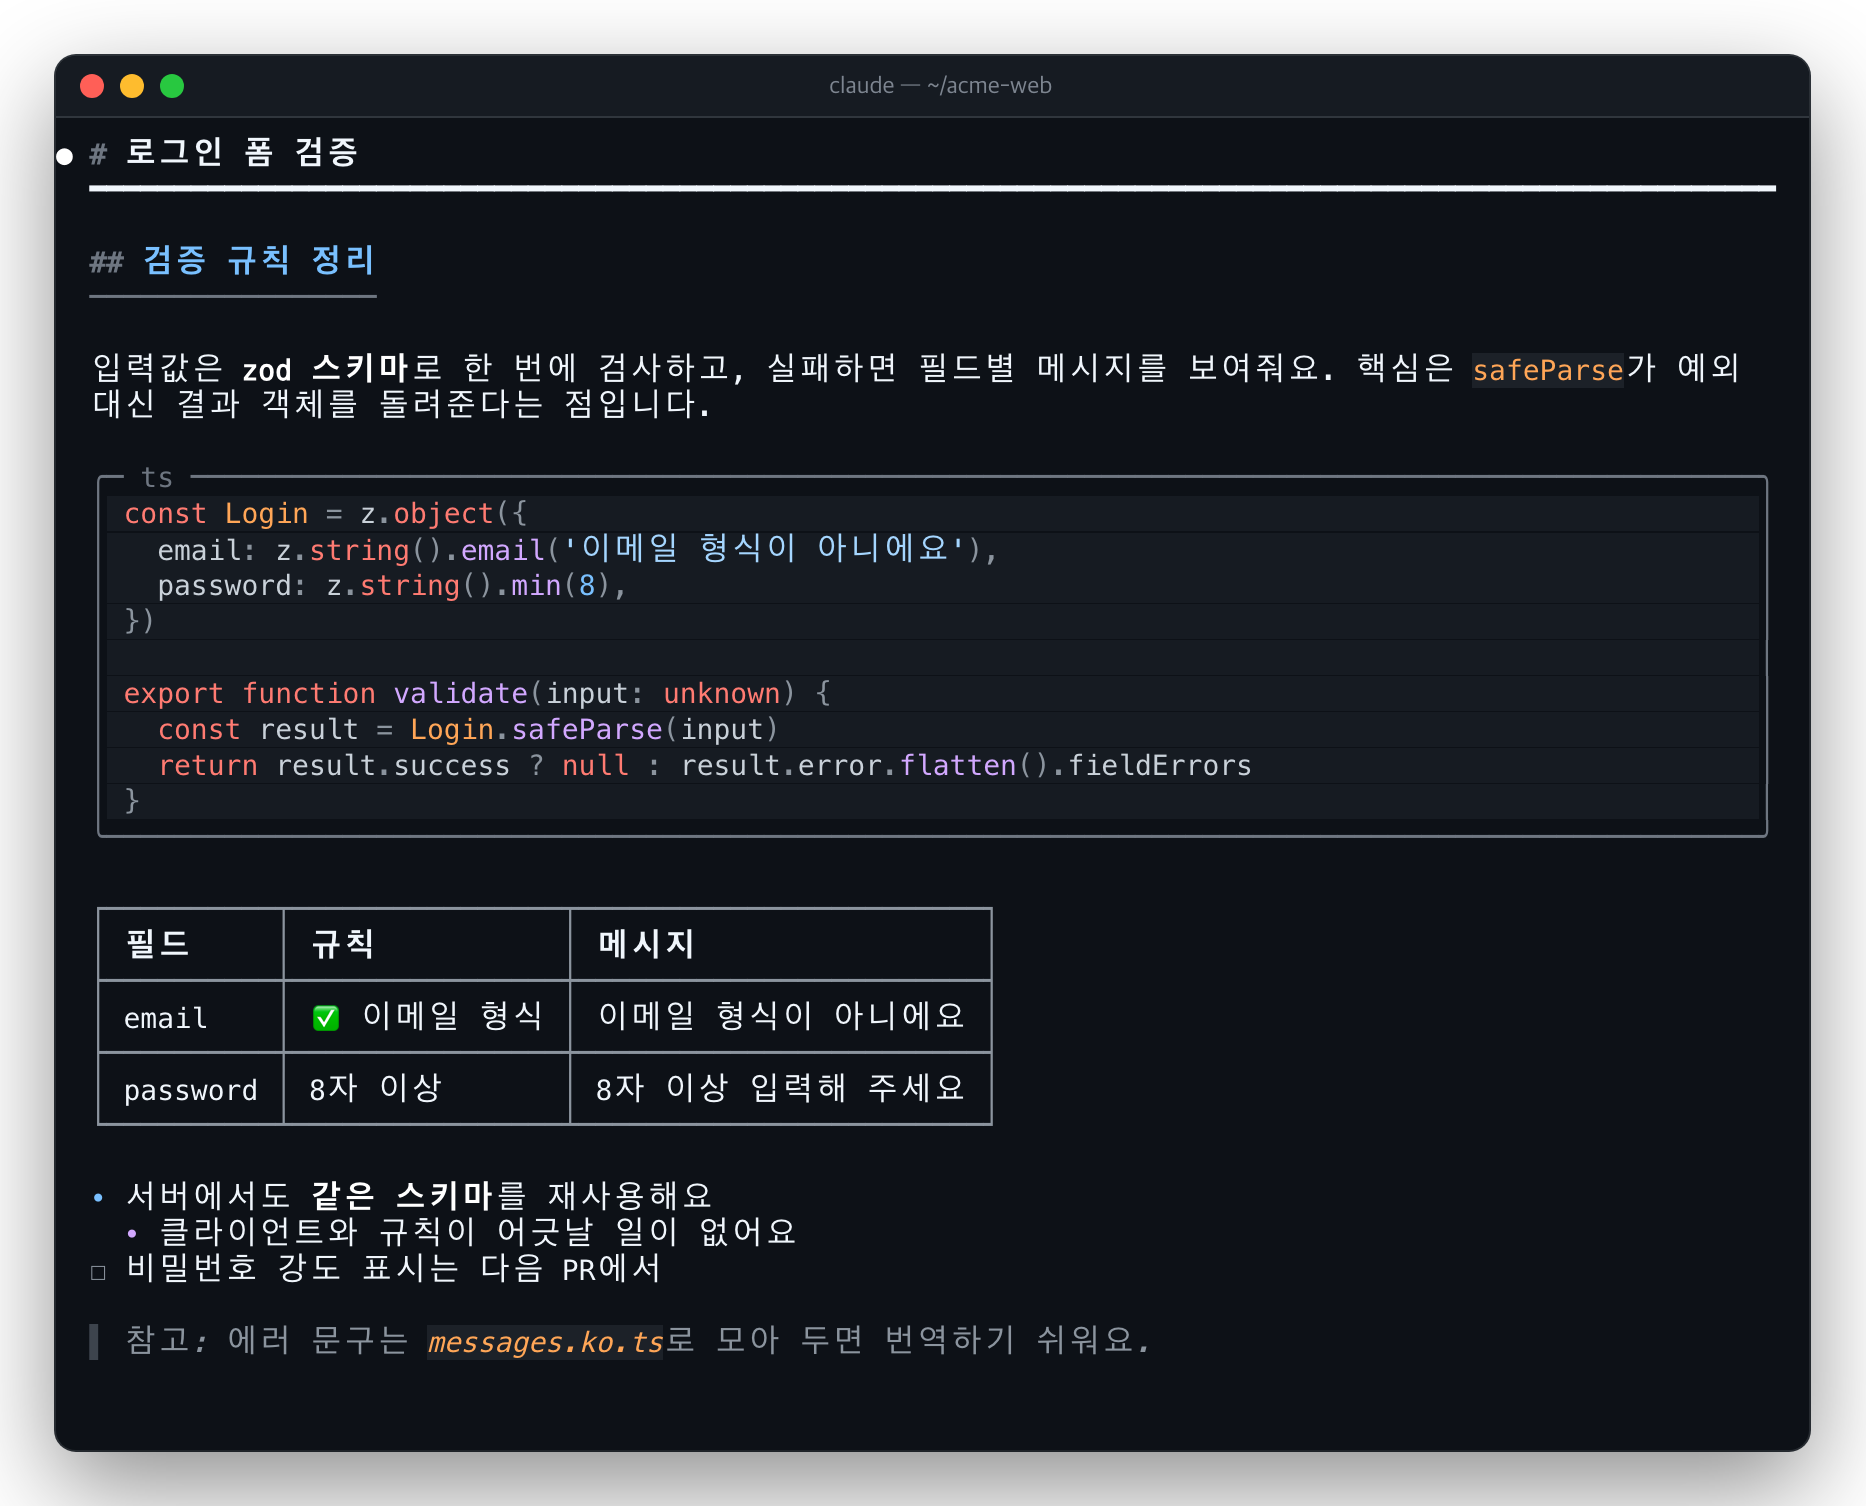
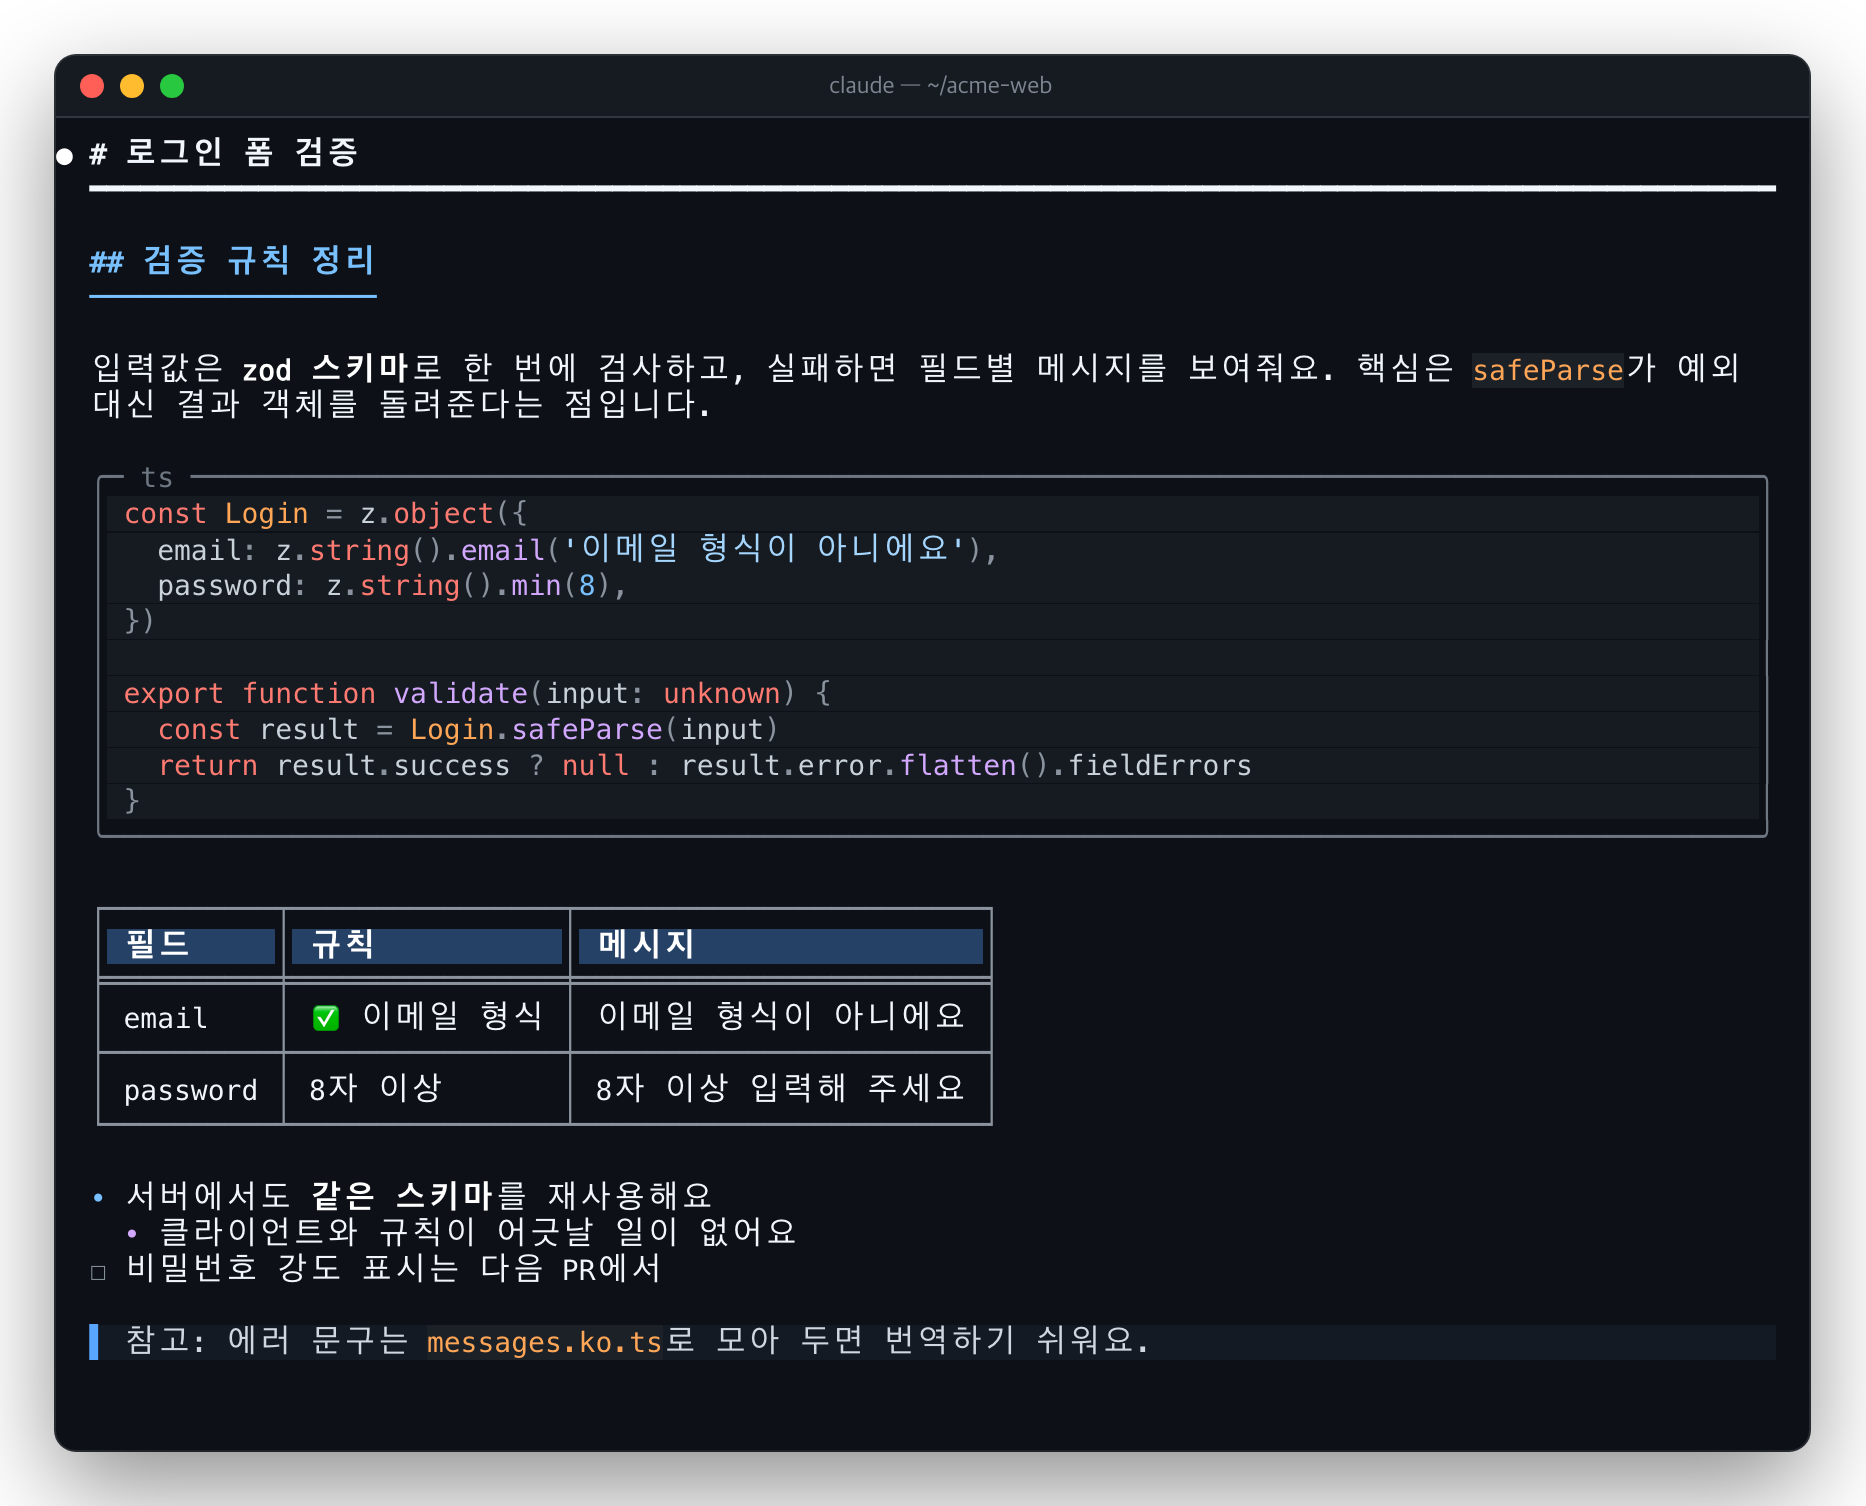
fix(readability): clearer quotes, table headers and heading marks (0.2.2)

diff --git a/mods/readability/hooks/layout.ts b/mods/readability/hooks/layout.ts
@@ -107,11 +107,12 @@ const span = (text: string, paint: Paint): Span => ({ text, paint })
 function heading(level: number, inline: Inline[], width: number): Line[] {
   const color = T.heading[Math.min(level, 6) - 1]!
   const paint: Paint = { color, weight: 'bold' }
-  const hashes = span(`${'#'.repeat(level)} `, { color: T.hash, weight: 'bold' })
+  // The # marks and the underline take the heading's own color, so the level reads at a glance.
+  const hashes = span(`${'#'.repeat(level)} `, { color, weight: 'bold' })
   const lines = wrap(spansOf(inline, paint), width, [hashes], [span(' '.repeat(level + 1), {})])
   const textWide = Math.max(...lines.map(l => l.reduce((n, s) => n + textWidth(s.text), 0)))
   if (level === 1) lines.push([span('━'.repeat(Math.max(8, width)), { color })])
-  if (level === 2) lines.push([span('─'.repeat(Math.min(width, Math.max(8, textWide))), { color: T.rule })])
+  if (level === 2) lines.push([span('─'.repeat(Math.min(width, Math.max(8, textWide))), { color })])
   return lines
 }
 
@@ -156,26 +157,28 @@ function table(block: Extract<Block, { kind: 'table' }>, width: number): Line[] 
     if (widths[widest]! <= 4) break
     widths[widest]!--
   }
-  const border = (l: string, m: string, r: string) => [span(l + widths.map(w => '─'.repeat(w + 2)).join(m) + r, { color: T.tableBorder })]
-  const row = (cells: Span[][]): Line[] => {
+  const border = (l: string, m: string, r: string, ch = '─') => [span(l + widths.map(w => ch.repeat(w + 2)).join(m) + r, { color: T.tableBorder })]
+  // `bg` tints a row's cells (the header's), leaving the borders and any span's own background.
+  const row = (cells: Span[][], bg?: string): Line[] => {
+    const fill: Paint = bg ? { backgroundColor: bg } : {}
     const wrapped = cells.map((cell, i) => wrap(cell, widths[i]!))
     const height = Math.max(1, ...wrapped.map(w => w.length))
     return Array.from({ length: height }, (_, y) => {
       const line: Line = [span('│', { color: T.tableBorder })]
       wrapped.forEach((cell, i) => {
-        const content = cell[y] ?? []
+        const content = (cell[y] ?? []).map(s => (bg && !s.paint.backgroundColor ? { ...s, paint: { ...s.paint, ...fill } } : s))
         const used = content.reduce((n, s) => n + textWidth(s.text), 0)
         const gap = widths[i]! - used
         const align = block.align[i] ?? 'left'
         const left = align === 'right' ? gap : align === 'center' ? Math.floor(gap / 2) : 0
-        line.push(span(' '.repeat(1 + left), {}), ...content, span(' '.repeat(1 + gap - left), {}), span('│', { color: T.tableBorder }))
+        line.push(span(' '.repeat(1 + left), fill), ...content, span(' '.repeat(1 + gap - left), fill), span('│', { color: T.tableBorder }))
       })
       return line
     })
   }
-  // A rule under the header and between every body row, so a row that wraps reads as one.
+  // A tinted header over a double rule, and a rule between every body row, so a row that wraps reads as one.
   const between = border('├', '┼', '┤')
-  return [border('┌', '┬', '┐'), ...row(head), between, ...rows.flatMap((r, i) => [...(i > 0 ? [between] : []), ...row(r)]), border('└', '┴', '┘')]
+  return [border('┌', '┬', '┐'), ...row(head, T.tableHeadBg), border('╞', '╪', '╡', '═'), ...rows.flatMap((r, i) => [...(i > 0 ? [between] : []), ...row(r)]), border('└', '┴', '┘')]
 }
 
 export function layoutBlocks(blocks: Block[], width: number, depth = 0): Line[] {
@@ -196,9 +199,14 @@ export function layoutBlocks(blocks: Block[], width: number, depth = 0): Line[] 
         out.push([span('─'.repeat(Math.max(4, width)), { color: T.rule })])
         break
       case 'quote': {
-        const bar = span('▌ ', { color: T.quoteBar })
-        for (const line of layoutBlocks(block.blocks, width - 2, depth)) {
-          out.push([bar, ...line.map(s => ({ ...s, paint: { ...s.paint, color: s.paint.color === T.text ? T.muted : s.paint.color, italic: true } }))])
+        // A bright bar and a faint tint across the width, the text a step softer than the body's but
+        // upright: italics read poorly in many terminal fonts.
+        const bg = { backgroundColor: T.quoteBg }
+        const bar = span('▌ ', { color: T.quoteBar, ...bg })
+        for (const line of layoutBlocks(block.blocks, width - 3, depth)) {
+          const body = line.map(s => ({ ...s, paint: { ...s.paint, ...(s.paint.color === T.text ? { color: T.quoteText } : {}), ...(s.paint.backgroundColor ? {} : bg) } }))
+          const used = 2 + body.reduce((n, s) => n + textWidth(s.text), 0)
+          out.push([bar, ...body, span(' '.repeat(Math.max(1, width - used)), bg)])
         }
         break
       }

diff --git a/mods/readability/hooks/theme.ts b/mods/readability/hooks/theme.ts
@@ -19,10 +19,11 @@ export const T = {
   code: '#ffa657',
   codeBg: '#1c2128',
   blockBg: '#161b22',
-  rule: '#6e7681',
-  hash: '#6e7681', // a heading's # marks
+  rule: '#8b949e',
   box: '#6e7681', // a code block's frame
-  quoteBar: '#3d444d',
+  quoteBar: '#58a6ff', // a quote's bar, and its tinted lines
+  quoteText: '#d1d7e0',
+  quoteBg: '#131a24',
   bullet: ['#79c0ff', '#d2a8ff', '#7ee787'],
   number: '#79c0ff',
   done: '#3fb950',
@@ -39,5 +40,6 @@ export const T = {
     key: '#7ee787',
   },
   tableBorder: '#8b949e',
-  tableHead: '#f0f6fc',
+  tableHead: '#ffffff',
+  tableHeadBg: '#264166', // the header row's cells, so it reads apart from the body
 } as const

diff --git a/mods/readability/tests/readability.test.tsx b/mods/readability/tests/readability.test.tsx
@@ -48,7 +48,7 @@ describe('layout', () => {
     const widths = new Set(lines.map(textWidth))
     expect(widths.size).toBe(1)
     // top, header, rule, row, rule between rows, row, bottom
-    expect(lines.map(l => l[0])).toEqual(['┌', '│', '├', '│', '├', '│', '└'])
+    expect(lines.map(l => l[0])).toEqual(['┌', '│', '╞', '│', '├', '│', '└'])
   })
 
   test('headings carry their level in #s; code sits in a frame', async () => {

diff --git a/mods/readability/README.en.md b/mods/readability/README.en.md
@@ -22,14 +22,14 @@ It fixes the two things that bothered me about [glamour-dark](https://github.com
 
 - **Body**: crisp white (`#f0f6fc`), wrapping at words (anywhere in Hangul and CJK), brighter bold, italic, strikethrough
 - **Headings**: a terminal has one type size, so a heading carries its level in `#`s, H1 a heavy rule across the width
-  and H2 a light one under its text
+  and H2 a light one under its text, marks and rules in the heading's own color
 - **Inline code · links**: orange on a faint background / blue and underlined (clickable)
 - **Code blocks**: a rounded frame with the language in its top edge, a background panel, syntax colors (TS/JS, Python,
   Go, Rust, shell, JSON, YAML…)
-- **Tables**: bright borders, a bold header, alignment (`:---:`), cells wrapped to fit; emoji like `✅` count two cells so
+- **Tables**: bright borders, a bold header on blue over a double rule, alignment (`:---:`), cells wrapped to fit; emoji like `✅` count two cells so
   columns stay aligned
 - **Lists**: `•` colored by depth, aligned numbers, `☐` `☑` checkboxes, hanging indents
-- **Quotes**: a `▌` bar and dim italics
+- **Quotes**: a blue `▌` bar, the whole line on a faint tint, clear text
 
 ## Install
 
